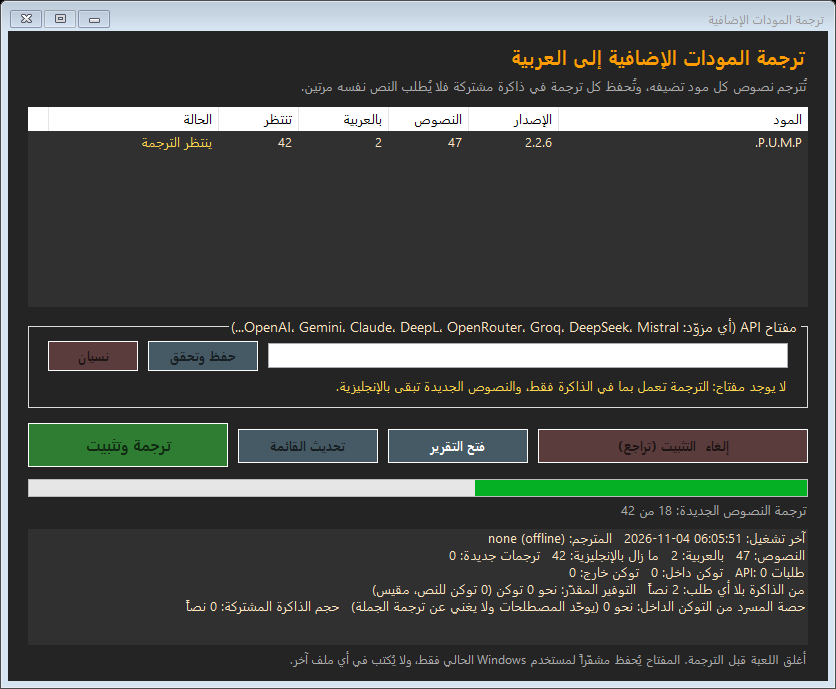
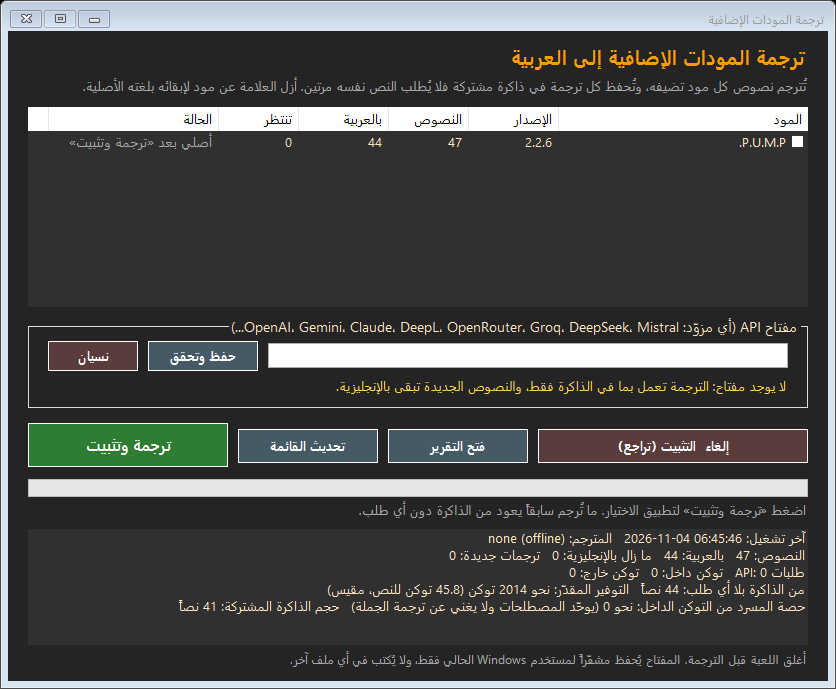
docs: keep-original option in README, LANGUAGE, DEVLOG, player README, portal text, FAQ and gallery image

diff --git a/tools/portal_images.py b/tools/portal_images.py
@@ -4,7 +4,8 @@
    and from the built mod, not retyped.
 2-4: crops of real in-game screenshots (reports/screens, made by tools.visual_check / tools.scenario_check).
 5: the language tool window (docs/images/tool-states.png).
-6: the mods translator window (docs/images/translator-busy.png, made with Translate-Mods.ps1 -Snapshot -PreviewBusy).
+6: the mods translator window, one mod unticked to keep its original language (docs/images/translator-original.png,
+   Translate-Mods.ps1 -Snapshot with FA_TEST_TOGGLE).
 python -E -m tools.portal_images <version>"""
 import sys
 from pathlib import Path
@@ -77,7 +78,7 @@ def main(version):
     crop(screens / 'phase4-scenario-zoom.png', (0, 56, 520, 196), 2, OUT / '3-freeplay-intro.png')   # below the
     crop(ROOT / 'docs' / 'images' / 'in-game-tooltip.png', (0, 60, 536, 480), 1, OUT / '4-long-description.png')  # test caption
     crop(ROOT / 'docs' / 'images' / 'tool-states.png', (0, 0, 968, 399), 1, OUT / '5-language-tool.png')
-    crop(ROOT / 'docs' / 'images' / 'translator-busy.png', (0, 0, 836, 689), 1, OUT / '6-mods-translator.png')
+    crop(ROOT / 'docs' / 'images' / 'translator-original.png', (0, 0, 836, 689), 1, OUT / '6-mods-translator.png')
     for p in sorted(OUT.glob('*.png')):
         print(p.name, Image.open(p).size, p.stat().st_size)
 

diff --git a/mod/portal-description.md b/mod/portal-description.md
@@ -50,7 +50,8 @@
 المودات التي تضيفها تظهر نصوصها بالإنجليزية. **أداة ترجمة المودات** تولّد على جهازك مود ترجمة محلياً
 (`arabic-mods-local`) بحروف متصلة كبقية اللعبة، بمفتاح API من **أي مزوّد** (OpenAI، Gemini، Claude، DeepL، OpenRouter،
 Groq، DeepSeek، Mistral، xAI). كل نص يُترجم يُحفظ في **ذاكرة مشتركة**: المود الذي لم يتغيّر لا يكلّف أي طلب، والمود
-الذي تحدّث تُترجم نصوصه الجديدة فقط (قياس: التشغيل الأول طلبان، والثاني 0).
+الذي تحدّث تُترجم نصوصه الجديدة فقط (قياس: التشغيل الأول طلبان، والثاني 0). ومود تريده **بلغته الأصلية** أزل
+العلامة بجانبه: تبقى بقية المودات عربية، وتعود ترجماته من الذاكرة دون أي طلب متى أعدت العلامة.
 
 **تنزيل:** [arabic-mods-translator.zip](https://github.com/F2lcon01/factorio01/releases/latest/download/arabic-mods-translator.zip)
 (نحو 12 ميغا، فيه Python مدمج) ← «استخراج الكل» ← `Translate-Mods.cmd` ← الصق المفتاح ← «ترجمة وتثبيت».
@@ -134,8 +135,9 @@ Mods you add show their texts in English. The **mods translator** (Windows) buil
 `arabic-mods-local`, shaped and ordered like the rest of the game, with an API key from **any provider** (OpenAI,
 Gemini, Claude, DeepL, OpenRouter, Groq, DeepSeek, Mistral, xAI). Every translated string goes into a **shared
 translation memory**: an unchanged mod costs no request, and an updated mod only sends its new or changed strings
-(measured: first run 2 requests, second run 0). Each answer is checked for placeholders, tags and plural forms before
-it is used.
+(measured: first run 2 requests, second run 0). Untick a mod to keep it in its **original language** while the others
+stay Arabic; tick it again and its translations come back from the memory with no request. Each answer is checked for
+placeholders, tags and plural forms before it is used.
 
 **Download:** [arabic-mods-translator.zip](https://github.com/F2lcon01/factorio01/releases/latest/download/arabic-mods-translator.zip)
 (about 12 MB, embedded Python, nothing to install) → Extract All → `Translate-Mods.cmd` → paste the key → Translate.

diff --git a/docs/DEVLOG.md b/docs/DEVLOG.md
@@ -277,6 +277,20 @@ with your mod» (exe, bat, ps1, sh, py). الحل: **فصل** الأداة عن 
 
 **لم يُختبر بعد:** جودة ترجمة مزوّد حقيقي (تحتاج مفتاح المستخدم).
 
+### 10.4 إبقاء مود (أو نص) بلغته الأصلية (2026-11-04، translator 1.1)
+
+الخطة: `docs/superpowers/plans/2026-11-04-per-mod-original-language.md`. المود الذي تُزال علامته يُحفظ في
+`STATE/excluded.json`: لا يُترجم ولا يدخل الحزمة ولا تبعياتها، وحالته «بلغته الأصلية»؛ تصحيح بقيمة `null` يبقي نصاً
+واحداً أصلياً. الذاكرة لا تُمس، فإعادته تكلّف 0 طلبات. الاختيار جزء من البصمة، فيعيد التحديث التلقائي البناء.
+
+**خلل كشفته اللقطة وأُصلح:** WinForms يطلق `ItemChecked` لكل عنصر عند إنشاء مقبض القائمة، أي عند فتح النافذة، فكان
+فتحها يغيّر حالة المود دون نقر. الحل: لا يُقبل الحدث قبل `Shown`. ثبت: الفتح وحده يترك الحالة «مترجم»، ونقرة محاكاة
+(`FA_TEST_TOGGLE`) تجعلها «أصلي».
+
+**ما ثبت:** 88 اختباراً (منها الاختبار الكامل: إبقاء مود أصلياً ثم إعادته، 0 طلبات في الحالتين). من الحزمة المفكوكة
+داخل المحرك: P.U.M.P. أصلي ← 10 من نصوص إعداداته بالإنجليزية؛ ثم عربي دون مفتاح ← 10 بالعربية من الذاكرة؛
+`Checksum of arabic-mods-local: 0` في الحالتين.
+
 ## 11. أفكار للتطوير لاحقاً
 
 1. **Crowdin:** نشر `work/crowdin-post.md` في منتدى Factorio مع `dist/arabic-crowdin_1.0.0.zip` و`reports/crowdin-diff.csv` لتدخل الترجمة اللعبة الرسمية.

diff --git a/mod/portal-faq.md b/mod/portal-faq.md
@@ -34,6 +34,10 @@
 ([arabic-mods-translator.zip](https://github.com/F2lcon01/factorio01/releases/latest/download/arabic-mods-translator.zip))
 بمفتاح API من أي مزوّد. ما تُرجم مرة يُحفظ ولا يُطلب ثانية.
 
+**أريد مود معيّناً بلغته الأصلية وبقية المودات بالعربية.**
+في نافذة ترجمة المودات أزل العلامة بجانب ذلك المود، ثم اضغط «ترجمة وتثبيت». ترجماته تبقى محفوظة، وإعادة العلامة
+تعيده إلى العربية دون أي طلب.
+
 **هل تكلّفني أداة ترجمة المودات مالاً؟**
 المزوّد يحاسبك على الطلبات بحسب مفتاحك. الأداة تقلّلها: النص يُرسل مرة واحدة ثم يُحفظ، والمود الذي لم يتغيّر لا يُرسل
 عنه شيء، وتعرض النافذة عدد الطلبات والتوكن بعد كل تشغيل.
@@ -80,6 +84,10 @@ It does not come from this mod. Close Steam completely and open it again.
 This mod translates the base game and its expansions. For other mods use the mods translator
 ([arabic-mods-translator.zip](https://github.com/F2lcon01/factorio01/releases/latest/download/arabic-mods-translator.zip))
 with an API key from any provider; a string translated once is stored and never requested again.
+
+**I want one mod in its original language and the others in Arabic.**
+In the mods translator, untick that mod and press Translate. Its translations stay stored; tick it again and it is
+Arabic again with no request.
 
 **Does the mods translator cost money?**
 Your provider bills the requests made with your key. The tool keeps them low: each string is sent once and stored, an

diff --git a/LANGUAGE.md b/LANGUAGE.md
@@ -103,6 +103,12 @@ powershell -NoProfile -ExecutionPolicy Bypass -File .\tools\auto_update.ps1 -Unr
 | جديد | لم يُترجم من قبل |
 | تغيّر | حدّثه مطوّره: يُرسل الجديد والمتغيّر فقط، والباقي من الذاكرة |
 | ينتظر الترجمة | بقيت نصوص بلا عربية (لا مفتاح، أو رفض الفحص) |
+| بلغته الأصلية | أزلت علامته: لا يُترجم ولا يدخل الحزمة، فتعرضه اللعبة كما يشحنه مطوّره |
+
+**إبقاء مود بلغته الأصلية:** أزل العلامة بجانب المود ثم «ترجمة وتثبيت». بقية المودات تبقى عربية، وترجماته تبقى في
+الذاكرة: إعادة العلامة تعيده إلى العربية دون أي طلب (يكفي «ترجمة وتثبيت» ولو بلا مفتاح). «الأصلي» هو ما يشحنه المود:
+الإنجليزية غالباً، أو عربيته غير المشكّلة إن كان يشحنها. لنص واحد فقط: اكتبه في ملف التصحيحات بقيمة `null`.
+بالأمر: `tools\translate_mods.ps1 -KeepOriginal pump` و`-TranslateMod pump`.
 
 **بالأمر:**
 
